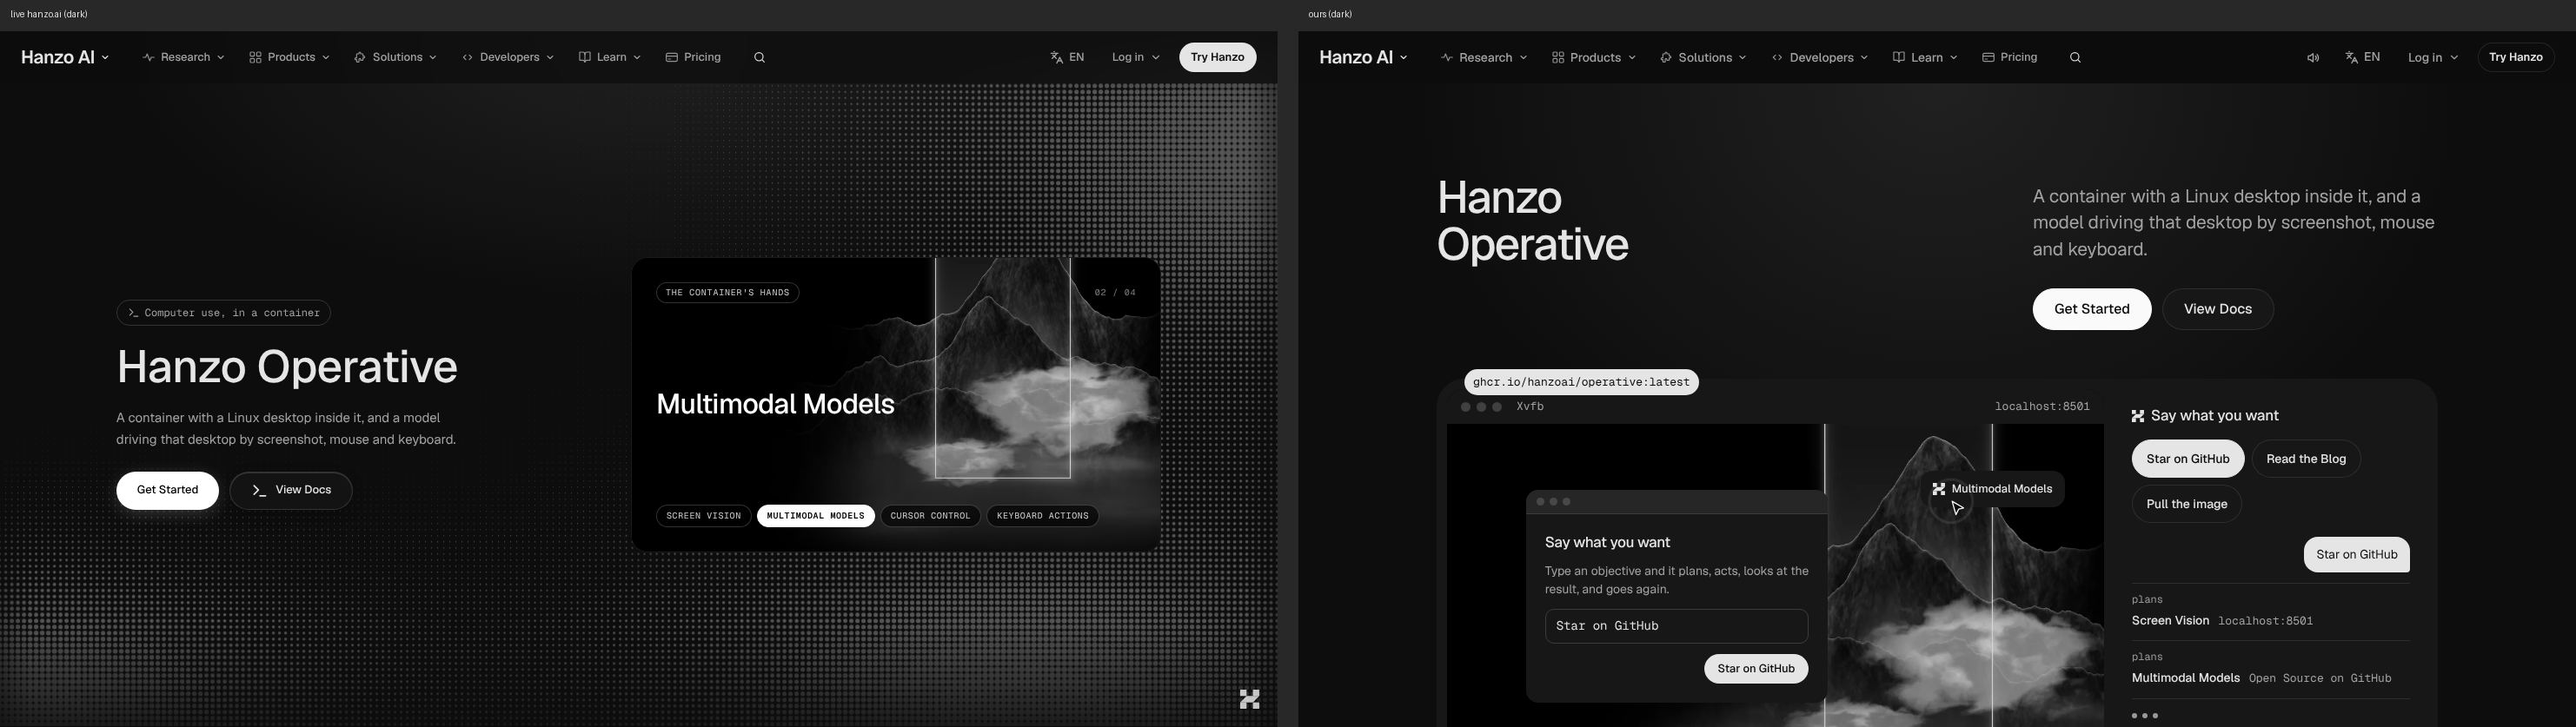
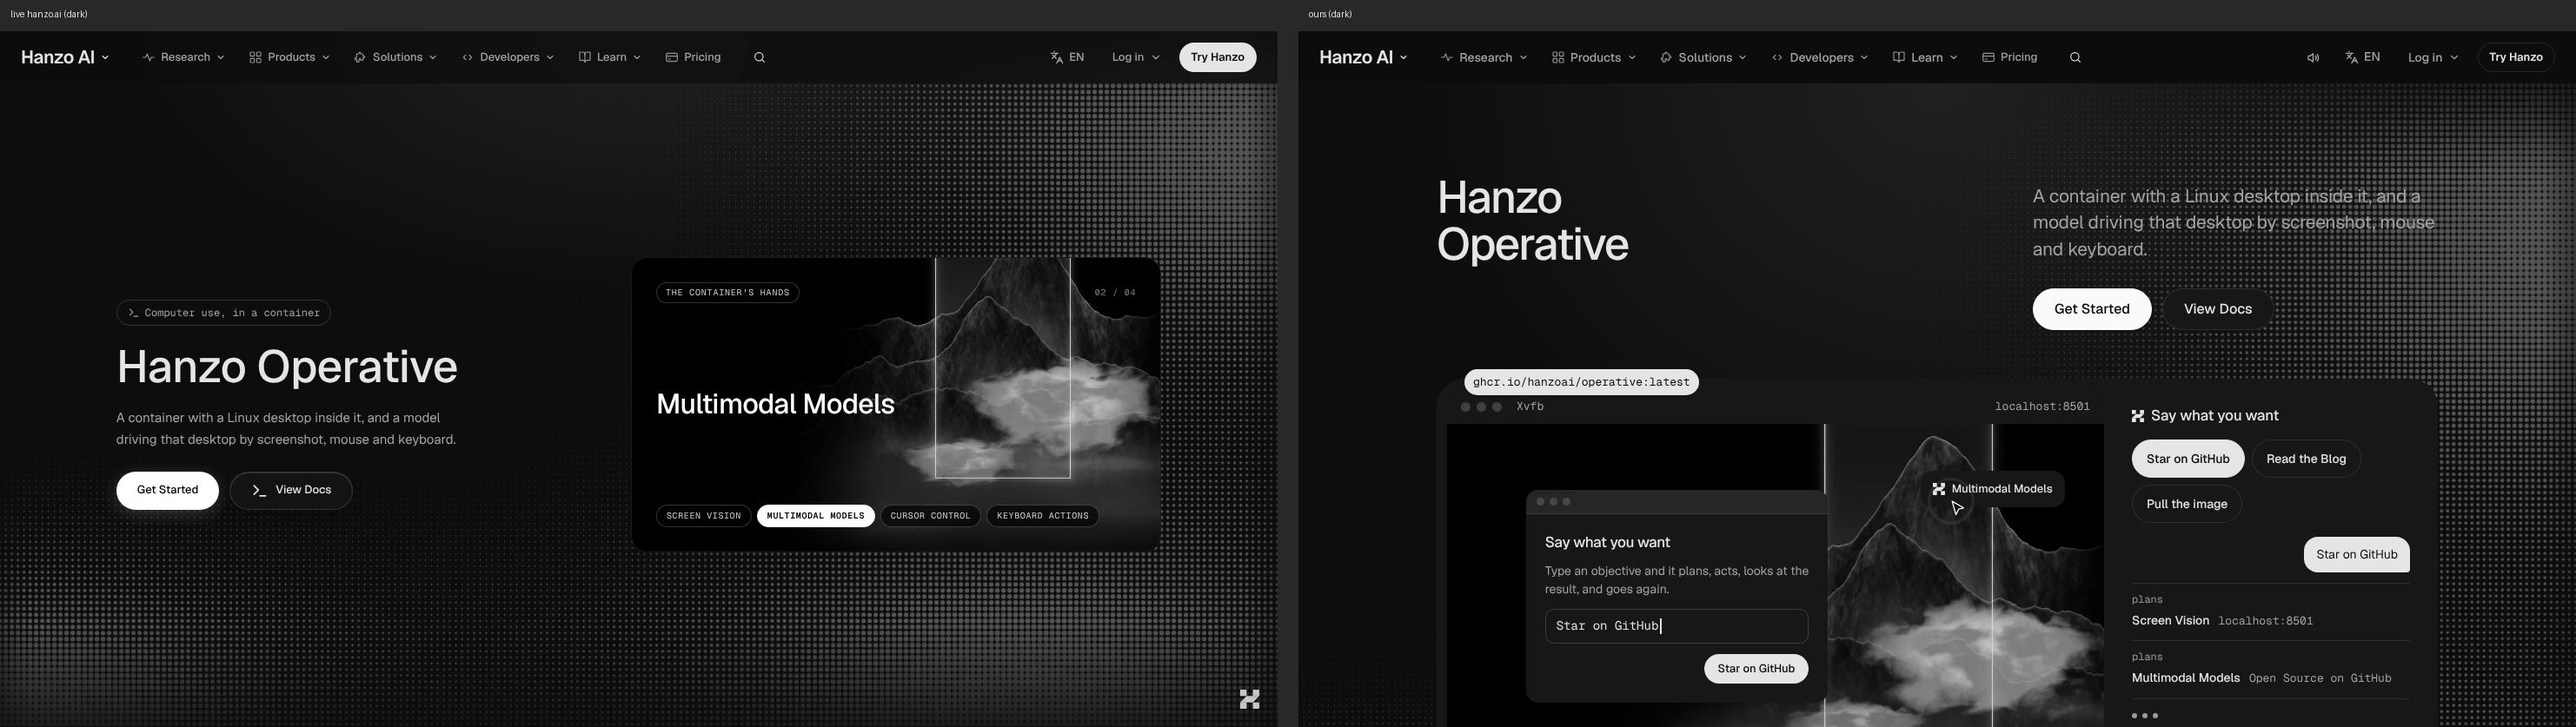
operative: dark mode — live's hero halftone (HeroDither) under the hero, dark only
Claude-Session: https://claude.ai/code/session_01P5YBdv7StJZXmK5oNtoxtW

Changed region(s): [[0.8381, 0.1243, 1.0, 1.0]]

diff --git a/components/pages/Operative.css b/components/pages/Operative.css
@@ -5,7 +5,7 @@
 /* dark mode (docs/DARK-MODE.md): ink and A2's page greys point at Hanzo's tokens; --blk keeps the black objects black */
 html:not(.light) .xov { --ink: var(--foreground); --acc: var(--foreground); --acc-soft: var(--muted); --soft: var(--muted-foreground); --faint: var(--text-tertiary); --card: var(--muted); --line: var(--border); }
 html:not(.light) .xov-term, html:not(.light) .xov-cmd { box-shadow: inset 0 0 0 1px var(--border); }
-html:not(.light) .xov-hero { background: radial-gradient(60% 70% at 50% 0%, color-mix(in srgb, var(--foreground) 9%, transparent), transparent 70%); } /* live's hero glow */
+html:not(.light) .xov-hero { position: relative; background: radial-gradient(60% 70% at 50% 0%, color-mix(in srgb, var(--foreground) 9%, transparent), transparent 70%); } /* live's hero glow */
 .xov .a2-sec { padding: clamp(72px, 8vw, 116px) 0; }
 
 /* hero: the name, then its lede on the same bottom line, then the desktop inside its container */

diff --git a/components/pages/Operative.jsx b/components/pages/Operative.jsx
@@ -28,6 +28,7 @@ import A2Room from '../v2/A2Room';
 import A2Grow from '../v2/A2Grow';
 import { T, EMPH, INOUT, MOVE } from '../v2/A2Motion';
 import { useEnter } from './operative/entrances';
+import HeroDither from './HeroDither';
 import '../v2/A2.css';
 import './Operative.css';
 
@@ -164,6 +165,7 @@ function Hero() {
   const flat = (ev) => { ev.currentTarget.style.setProperty('--rx', '0deg'); ev.currentTarget.style.setProperty('--ry', '0deg'); };
   return (
     <section className="xov-hero" ref={ref} aria-labelledby="xov-h1">
+      <HeroDither />
       <div className="a2-wrap a2-grid xov-top">
         <A2Lines as="h1" id="xov-h1" className="a2-display xov-h1" lines={['Hanzo', 'Operative']} now />
         <p className="a2-kick">Computer use, in a container</p>
